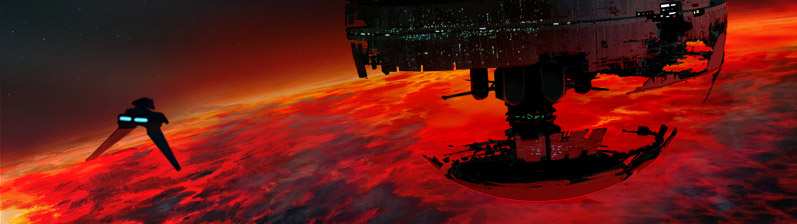
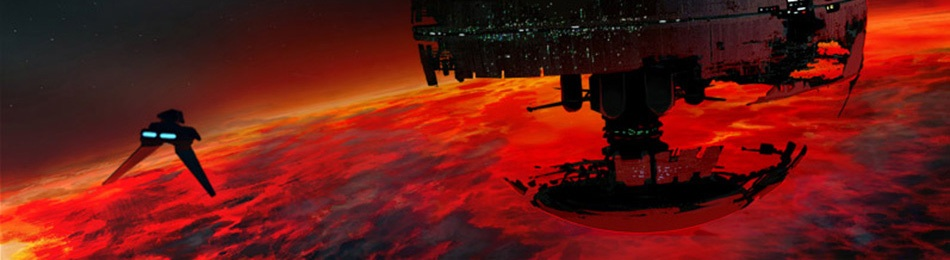
* Updated vader's appearance and added support for 3 columns width.
git-svn-id: http://kaytwo.googlecode.com/svn/trunk@619 0da3f984-a319-0410-8551-939afe8cdb0b

diff --git a/styles/vader/vader.css b/styles/vader/vader.css
@@ -8,14 +8,15 @@
 	You select schemes from the K2 Options page in the
 	'Presentation' section of your WordPress administration.
 	
-	Author Name	: 	Michael Heilemann
-	Author Site	: 	http://binarybonsai.com
-	Style Name	: 	Vader2
-	Style URI	:	http://getk2.com
-	Version		: 	1.0
-	Comments	: 	I made Vader as a tribute to Star Wars for use on my own blog.
-				  	The header image was painted by my friend Rasmus (http://no-go-dk)
-					License: http://creativecommons.org/licenses/by-nc-sa/2.5/
+	Author Name		: 	Michael Heilemann
+	Author Site		: 	http://binarybonsai.com
+	Style Name		: 	Vader2
+	Style URI		:	http://getk2.com
+	Version			:	1.0
+	Header Height	:	260
+	Comments		:	I made Vader as a tribute to Star Wars for use on my own blog.
+						The header image was painted by my friend Rasmus (http://no-go-dk)
+						License: http://creativecommons.org/licenses/by-nc-sa/2.5/
 */
 
 body {
@@ -26,8 +27,7 @@ body {
 
 #header {
 	background: black url('mustafar.jpg') center center no-repeat;
-	width: 100%;
-	height: 224px;
+	height: 260px;
 	}
 
 h1 {
@@ -45,9 +45,6 @@ h1 {
 	}
 
 #page {
-	padding: 0;
-	width: 796px;
-	_width: 756px;
 	border: none;
 	}
 
@@ -160,24 +157,27 @@ a, a:visited, .sidebar a:visited {
 	}
 
 /* Rolling Archives Slider */
-#current-content #pagetrack,
-#dynamic-content #nested_pagetrack {
-	margin: 0 auto;
-	width: 218px;
+#dynamic-content #pagetrack {
 	height: 18px;
 	background: url('sliderbgleft.png') no-repeat center left;
-}
+	}
 
-#current-content #pagetrackend,
-#dynamic-content #nested_pagetrackend {
+#dynamic-content #pagetrackwrap {
 	height: 18px;
+	padding-right: 4px;
+	top: 0px;
 	background: url('sliderbgright.png') no-repeat center right;
 	}
 
-#current-content #pagehandle,
-#dynamic-content #nested_pagehandle {
+#dynamic-content #pagehandle {
 	width: 18px;
 	height: 18px;
+	top: 0px;
 	background: url('sliderhandle.png') no-repeat center center;
 	cursor: e-resize;
-}
+	}
+
+body.smartposition #rollingarchives {
+	background-color: black;
+	border-bottom: 1px solid #444;
+	}
